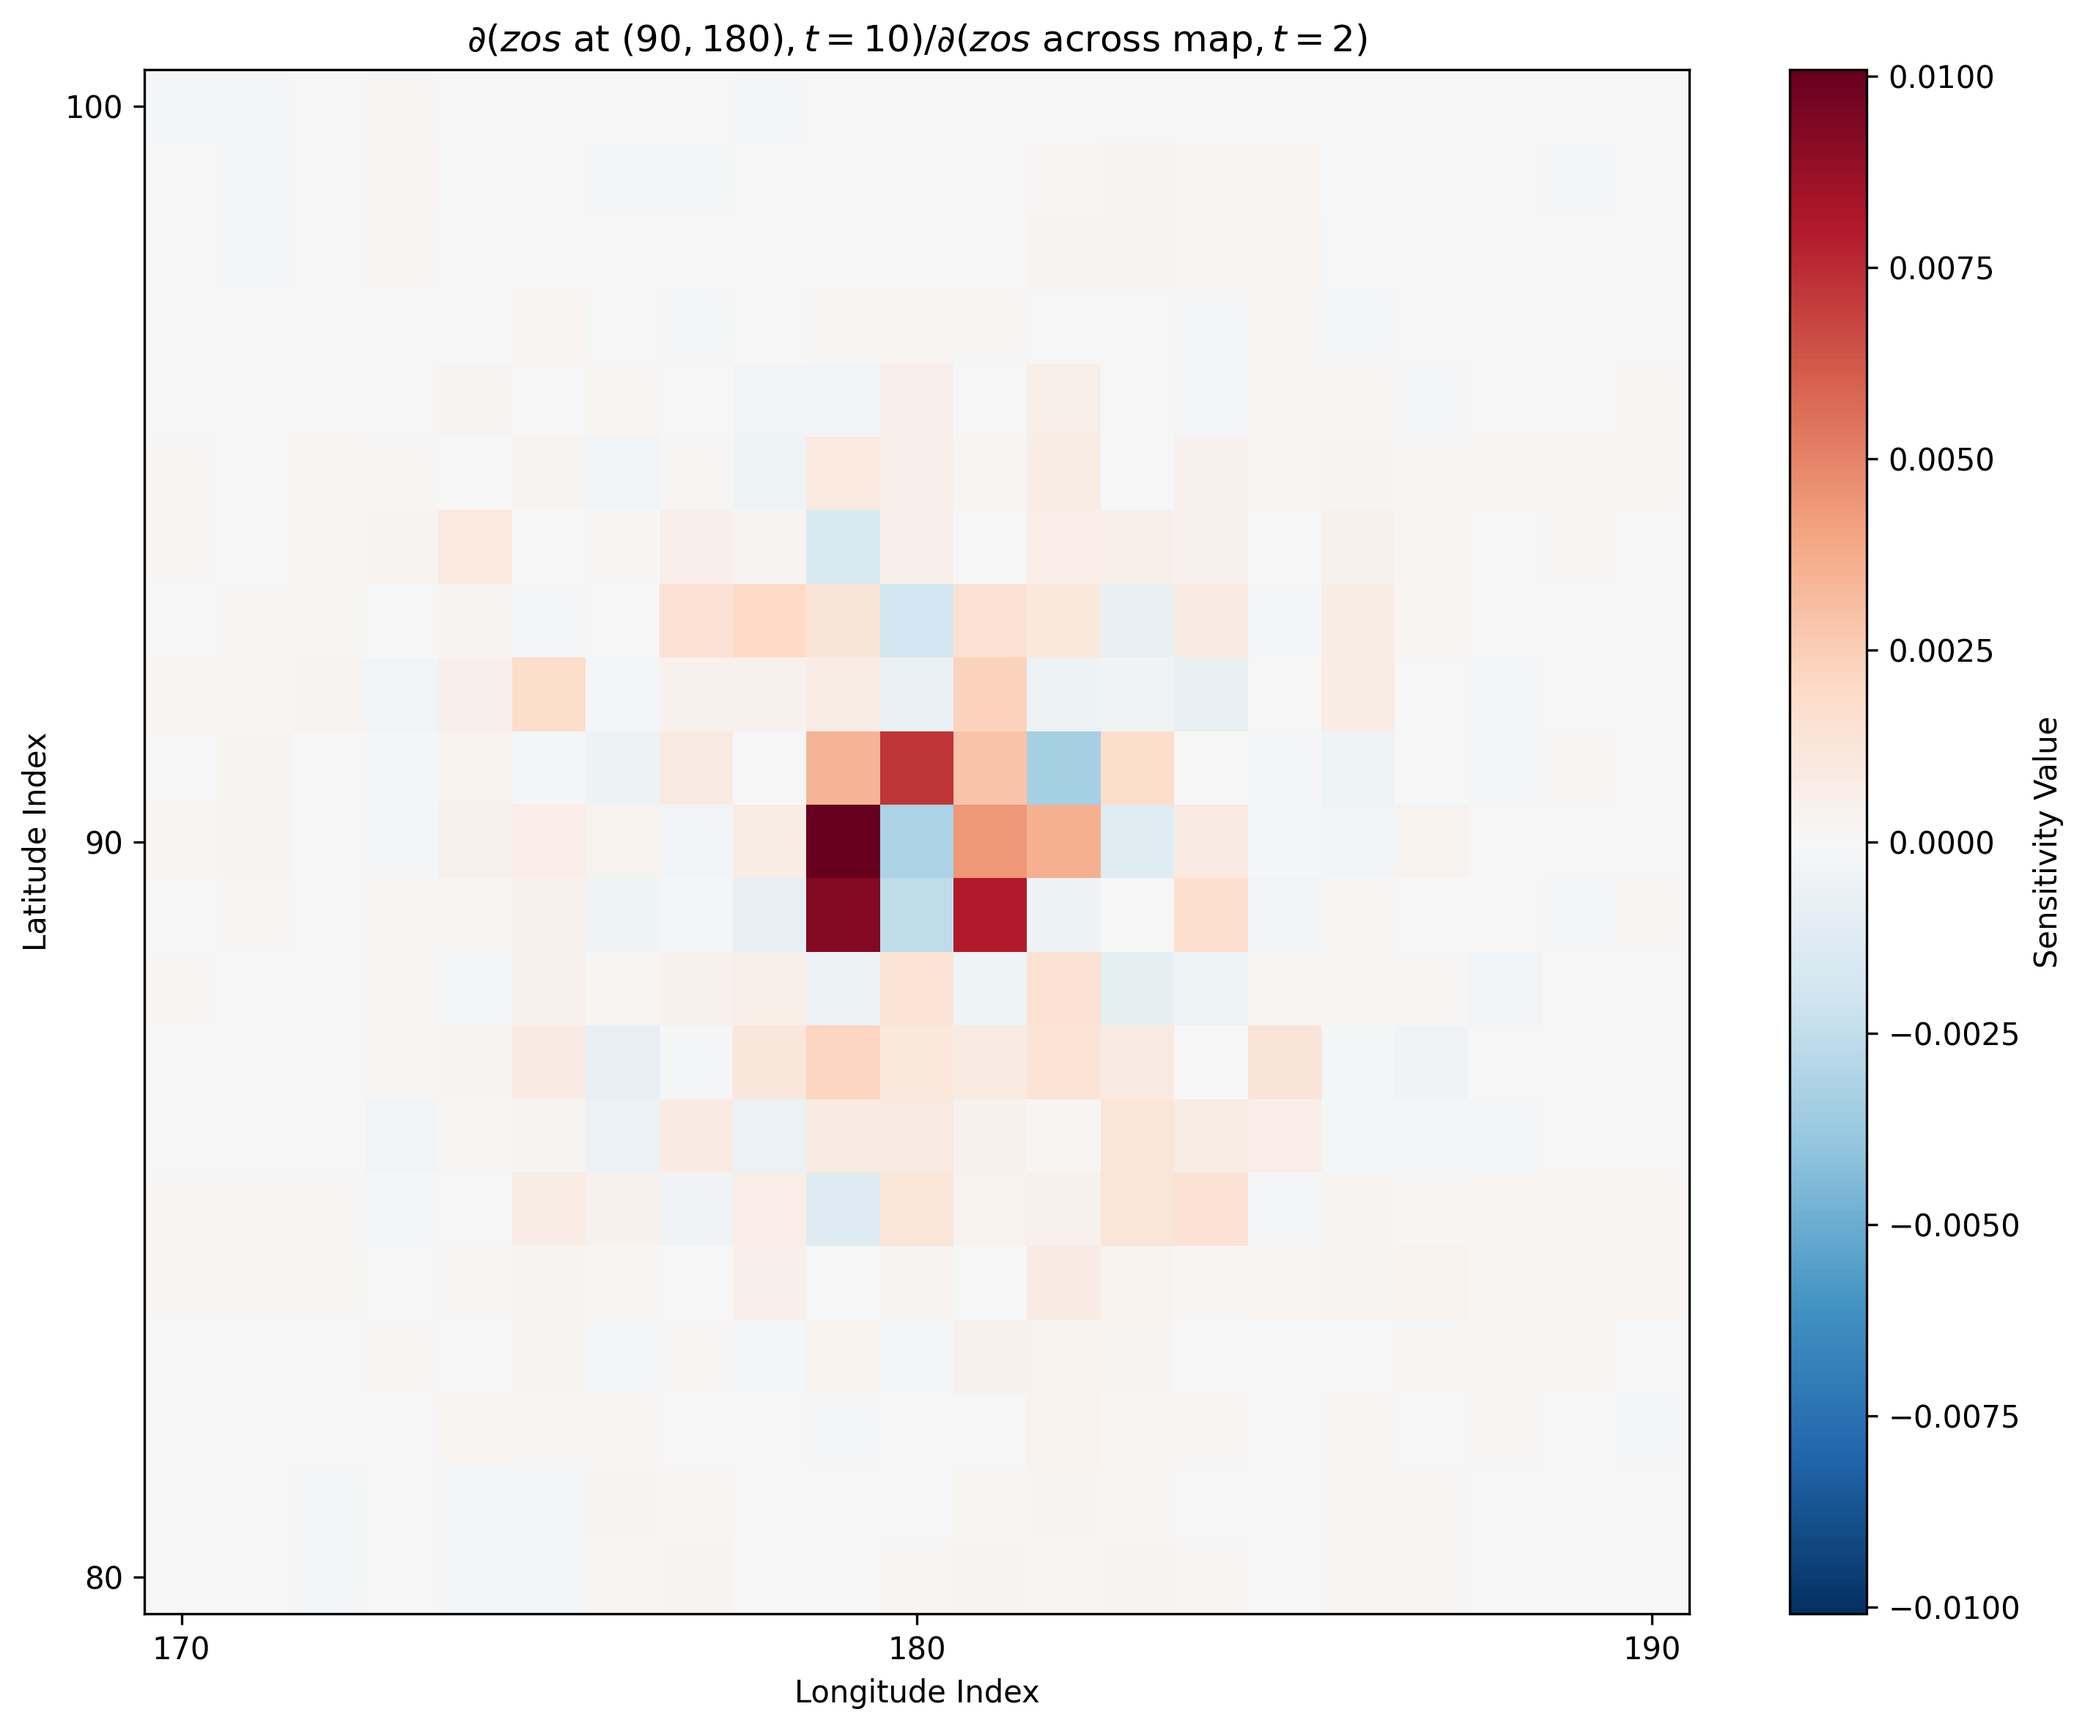
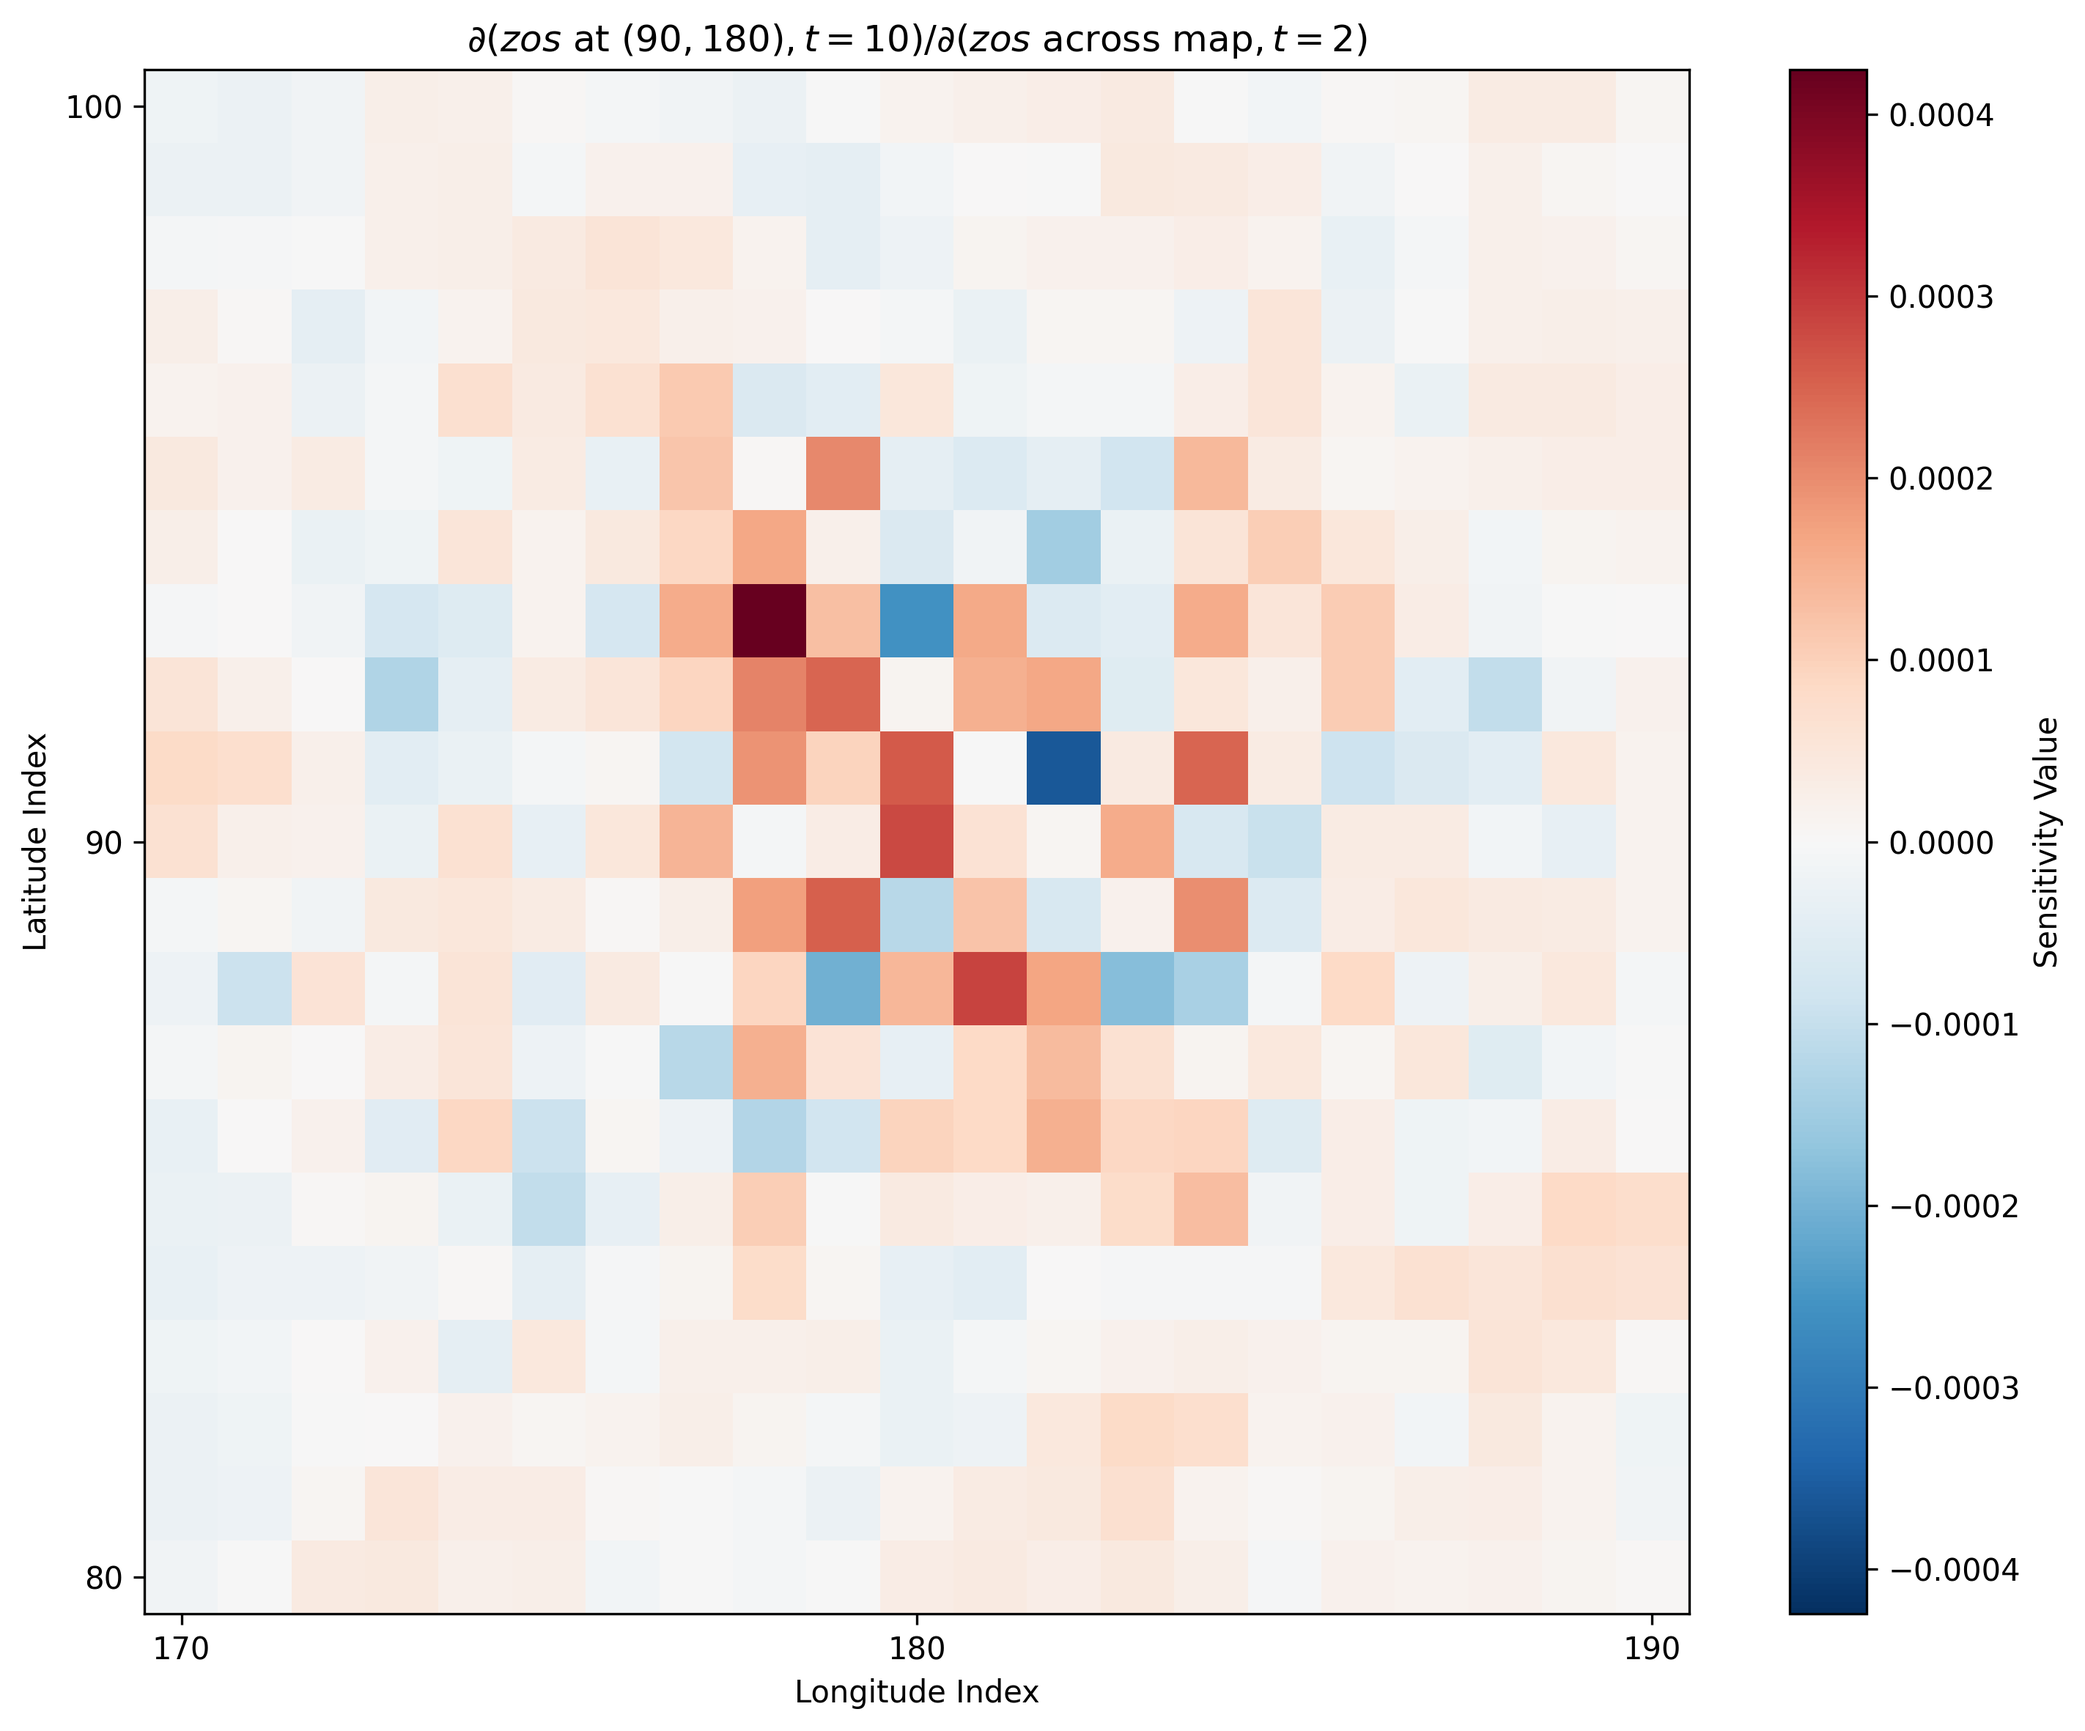
Blindly checking whether adjusting some stuff removes the observed discrepancy

diff --git a/Samudra_Testing/model_adjoint.py b/Samudra_Testing/model_adjoint.py
@@ -861,9 +861,11 @@ class SamudraAdjoint(model.Samudra):
 
         for out_obj_idx, out_obj in enumerate(objective_list):
             out_obj_tensor, num_elems = out_obj
-            # Clear gradients before backward pass
-            if out_obj_tensor.grad is not None:
-                out_obj_tensor.grad.zero_()
+
+            for in_obj_idx, in_obj in enumerate(tracked_list):
+                # Clear gradients before backward pass
+                if in_obj.grad is not None:
+                    in_obj.grad.zero_()
             
             timer.checkpoint("Cleared gradients before backward pass")
             

diff --git a/Samudra_Testing/samudra_adjoint.py b/Samudra_Testing/samudra_adjoint.py
@@ -68,7 +68,7 @@ final_lon_slice = slice(final_lon, final_lon+1)#slice(289, 291)  # Nantucket 2x2
 
 # Model choice
 hist = 1
-N_test = 40  # Timesteps to use for testing
+N_test = 600  # Timesteps to use for testing
 state_in_vars_config = "3D_thermo_dynamic_all"
 state_out_vars_config = state_in_vars_config
 boundary_vars_config = "3D_all_hfds_anom"
